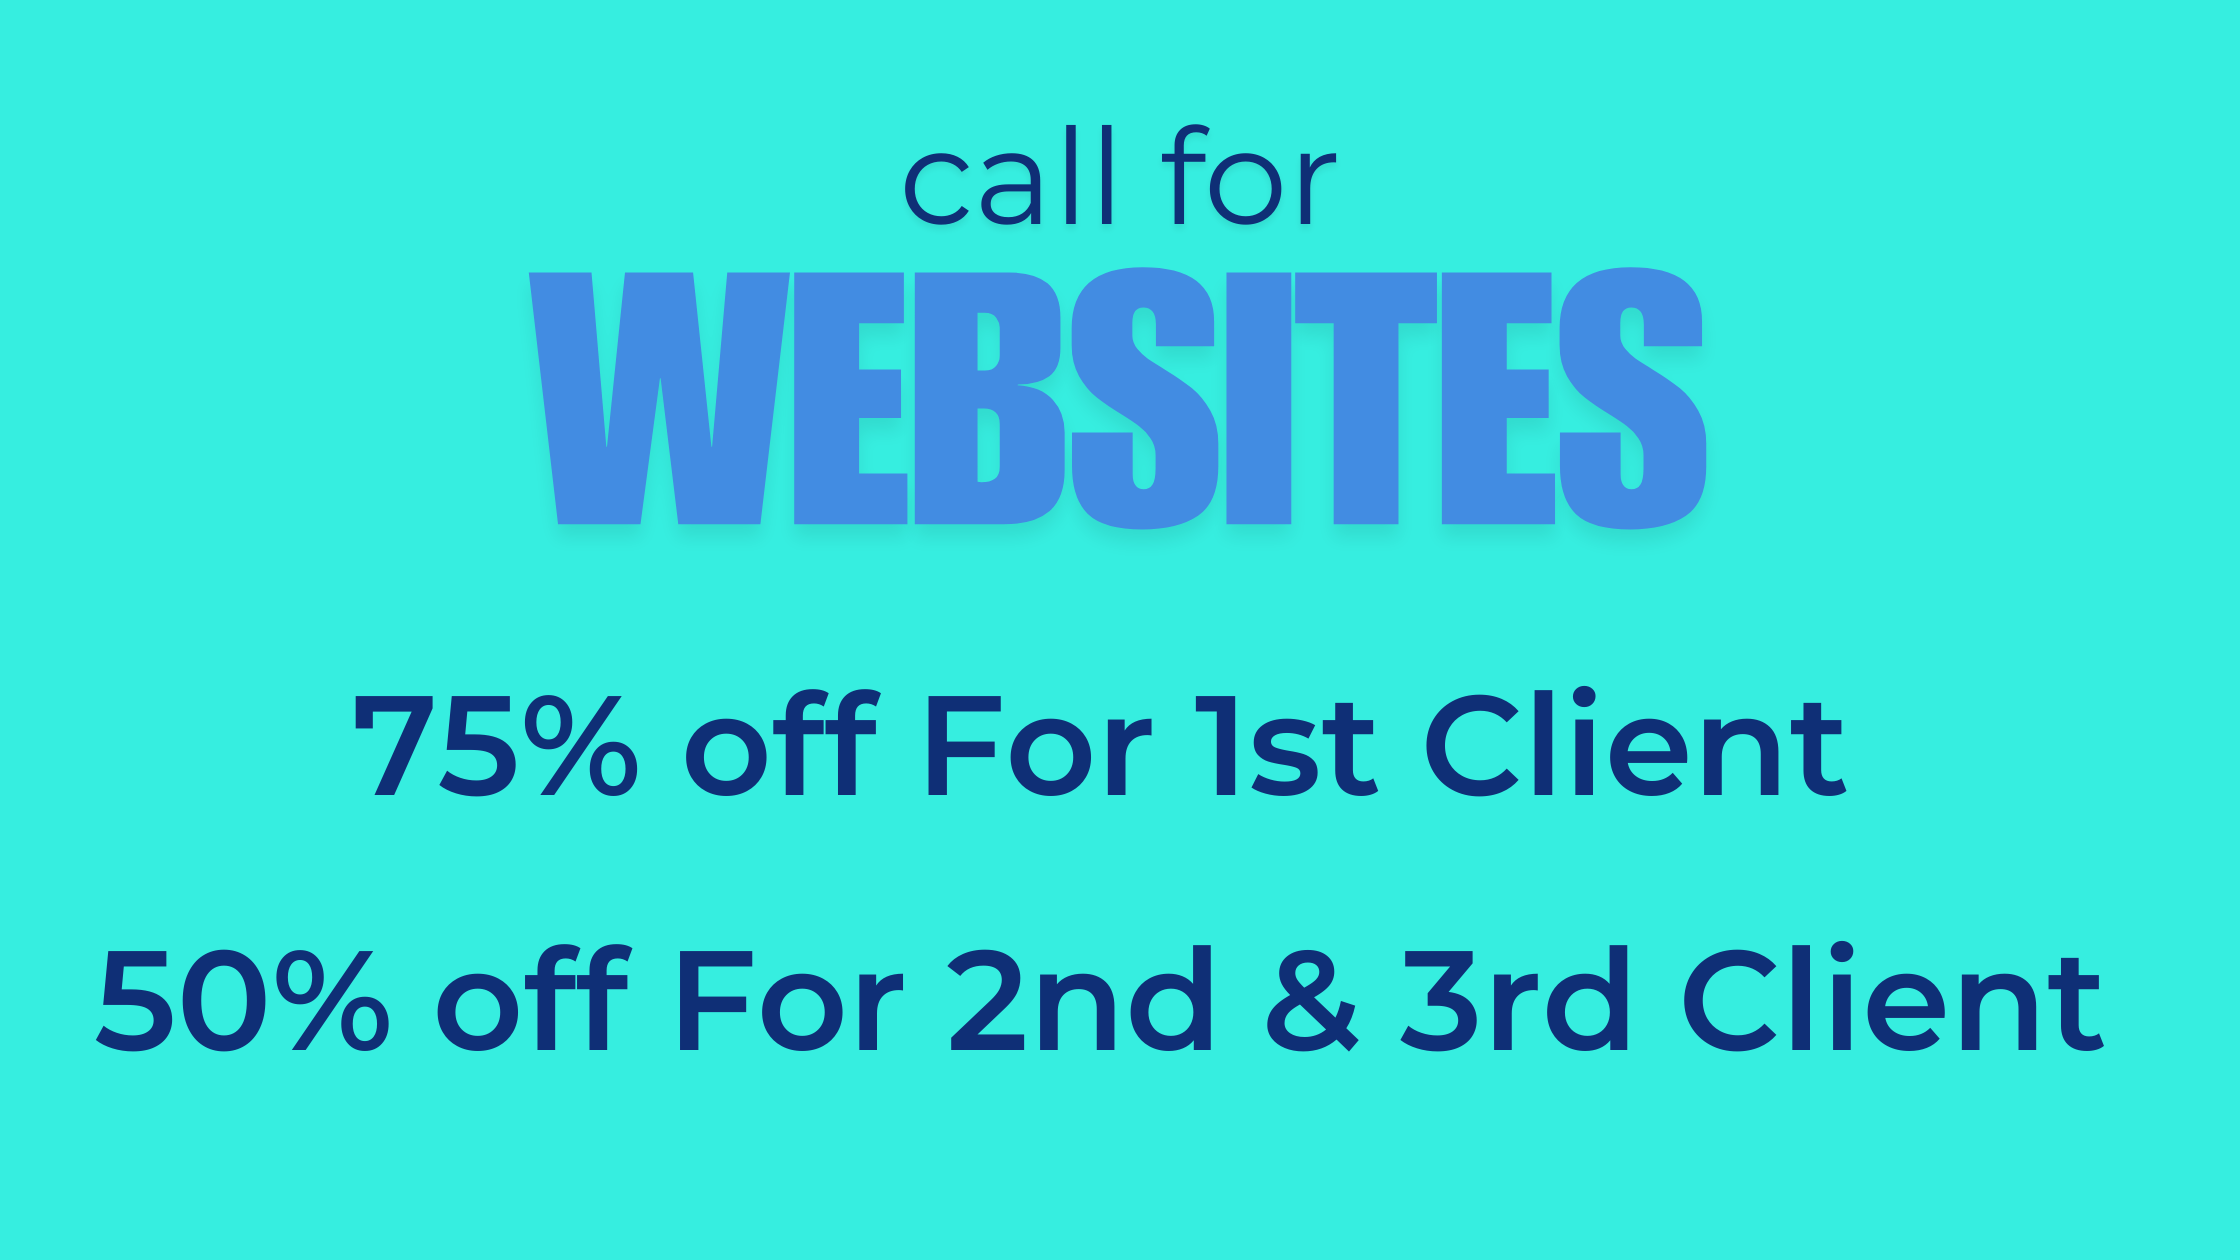
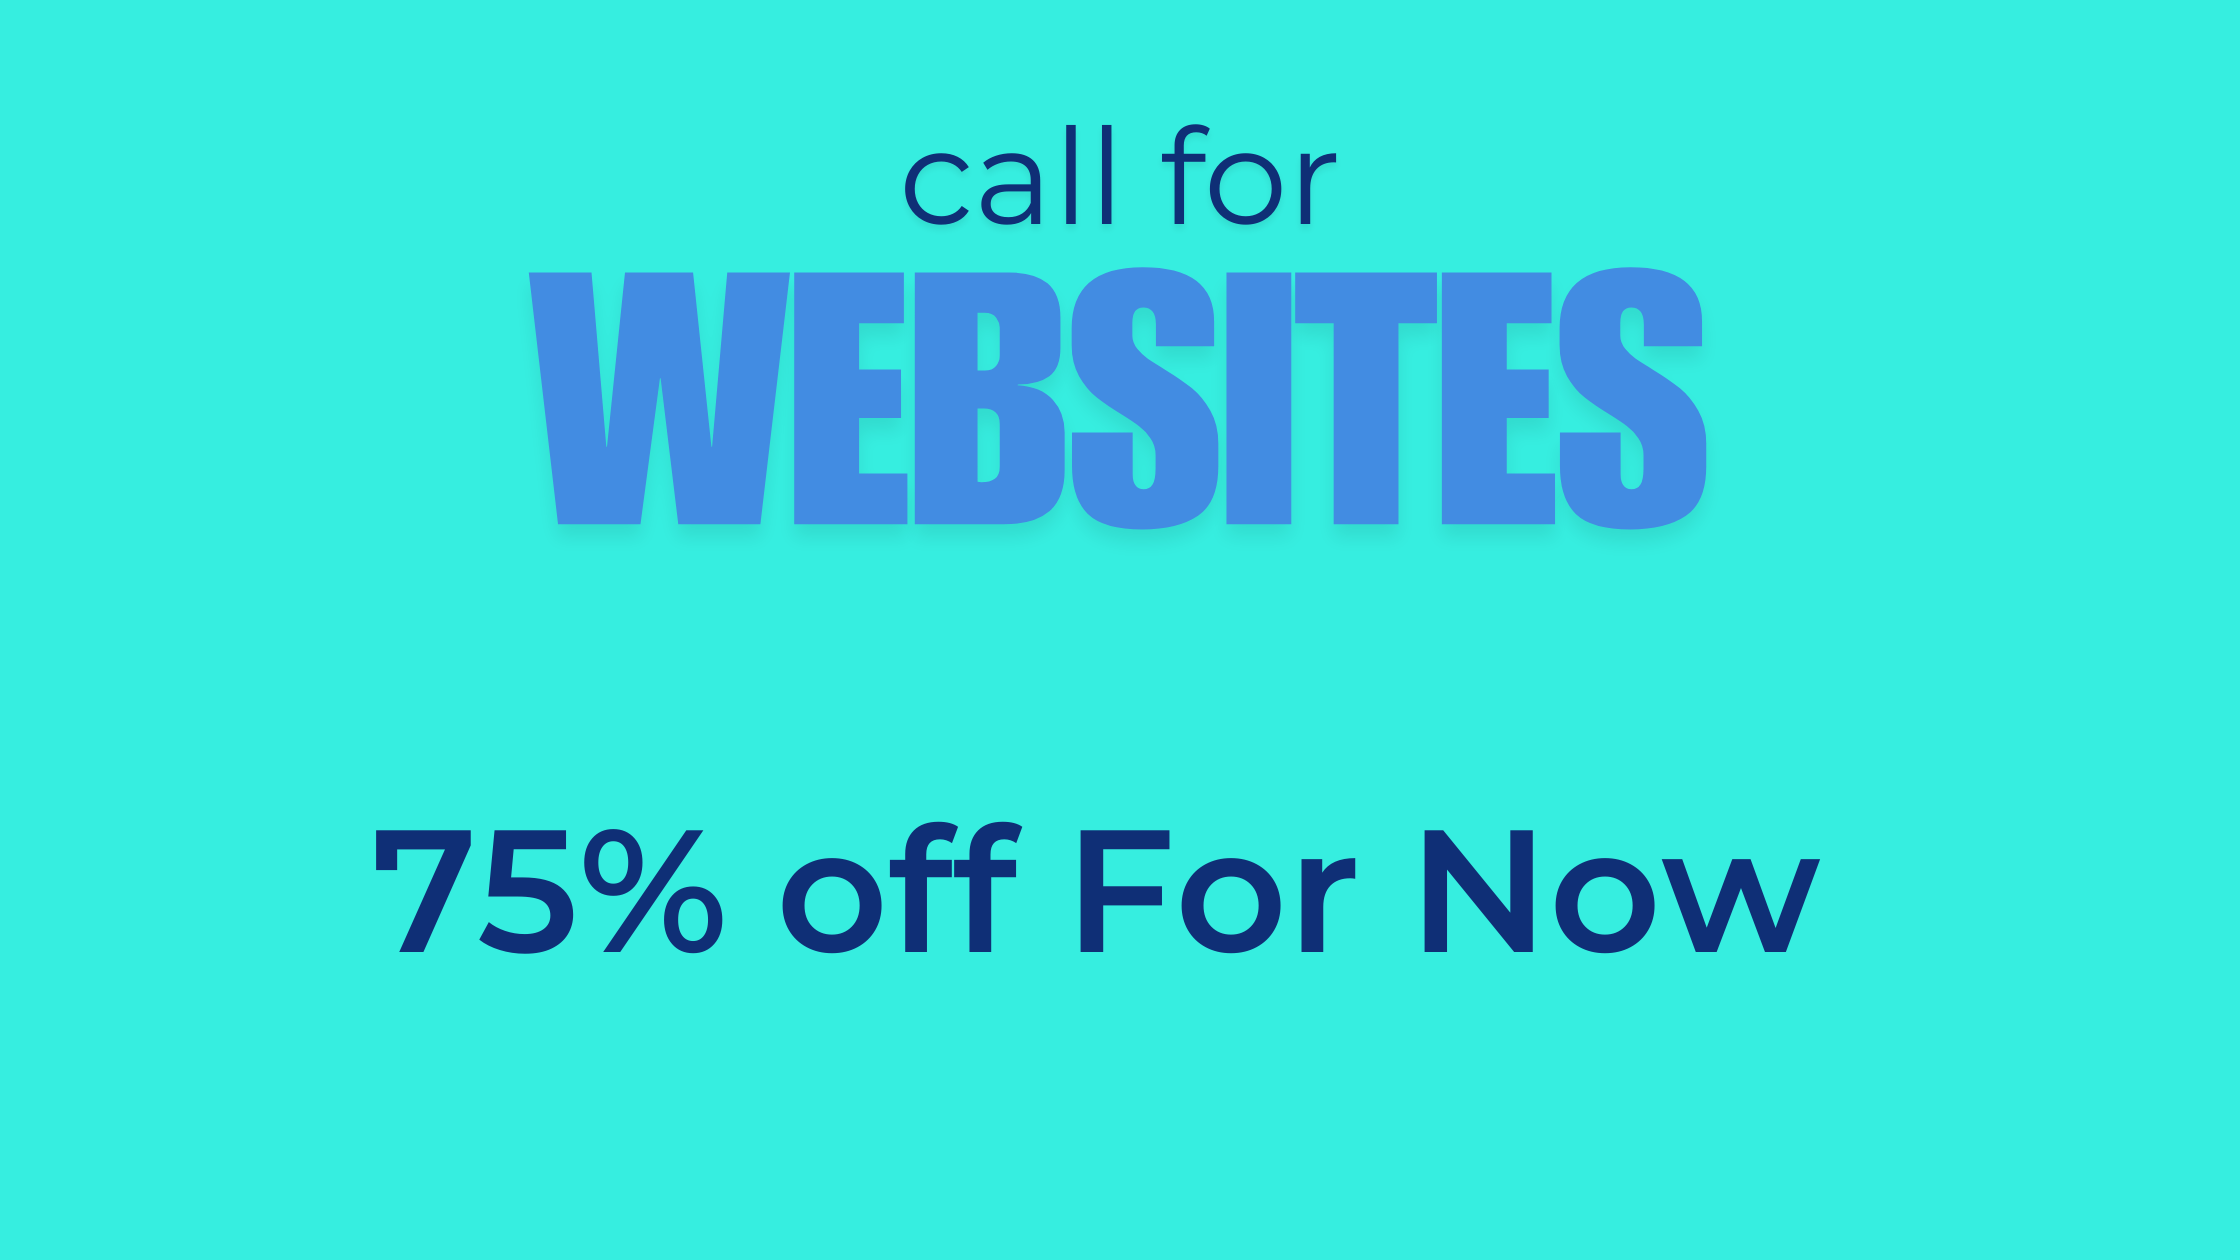
some updates

Changed region(s): [[0.0312, 0.5262, 0.9375, 0.8357]]

diff --git a/src/pages/About.jsx b/src/pages/About.jsx
@@ -45,13 +45,19 @@ const About = () => {
       </div>
 
       {/* Flex Container for Paragraph, GIF and Name */}
-      <div className="md:flex items-center pt-12 md:pt-20 md:px-24">
+      <div className="md:flex items-center pt-12 md:pt-50 md:px-24">
         {/* Left Side - Paragraph */}
         <div className="flex-1 md:pt-0 pt-5 px-4">
-          <h1 className="md:text-[30px] text-[25px] md:pb-1">About Us</h1>
-          <div className="bg-[#DBFF5E] h-1 w-[100px] mb-4"></div>
+          <h1 className="md:text-[30px] text-[25px] md:pb-0">Our Story</h1>
+          <div className="bg-[#DBFF5E] h-1 w-[100px] md:w-[130px]  mb-4"></div>
           <p className="md:w-3/4 ">
-            Lorem Ipsum is simply dummy text of the printing and typesetting industry. Lorem Ipsum has been the industry's standard dummy text ever since the 1500s, when an unknown printer took a galley of type and scrambled it to make a type specimen book. It has survived not only five centuries, but also the leap into electronic typesetting, remaining essentially unchanged. It was popularised in the 1960s with the release of Letraset sheets containing Lorem Ipsum passages, and more recently with desktop publishing software like Aldus PageMaker including versions of Lorem Ipsum.
+              It all started with two college friends who shared a passion for software development but knew they didn’t want to be confined to a traditional 9-to-5 job. Driven by a vision to create something impactful, we built this platform to connect those in need of quality digital solutions with reliable, affordable services.
+
+              We specialize in developing custom websites and web applications tailored to you and your business needs. Whether you're a startup or an established brand, we’re here to bring your vision to life with dedication and precision.
+
+              As we embark on this journey, our focus is on delivering reliability and building trust with our clients, prioritizing long-term relationships over short-term profits, That's why we are doing this at highly affordable price. We're excited to start small, but we have big expansion plans for the future.
+
+              Give us the opportunity to serve you, and let’s create something amazing together. Thank you for considering us.
           </p>
         </div>
 
@@ -67,6 +73,7 @@ const About = () => {
         {/* Right Side - Name */}
         <div className="flex-shrink-0 text-center md:pt-0 py-3 md:text-right md:w-2/6">
           <p className="text-[24px] text-[#DBFF5E]">Hari & Deepan<br/><h5 className="text-white">The Developer Duo You'll Ever Need</h5></p>
+          <p className="md:text-[17px] text-base">For Orders : <br/> 6369312803 - WhatsApp preferred<br/>Email : bluehutch01@gmail.com</p>
         </div>
       </div>
     </div>

diff --git a/src/pages/AboutUs.jsx b/src/pages/AboutUs.jsx
@@ -8,9 +8,9 @@ function AboutUs() {
     return (
         <div className='md:px-5 md:py-16 py-32'>
         <div>
-            <div className='md:text-[#DBFF5E] text-white text-center text-2xl md:text-4xl'>
+            <div className='md:text-[#DBFF5E] text-white text-center text-2xl md:text-3xl'>
                
-                <div className='md:text-white text-[#DBFF5E] pt-2'>We Are Under Production. Stay Tuned!</div>          
+                <div className='md:text-white text-[#DBFF5E] pt-2'>We're still under development, but fully functional with our current features.</div>          
             </div>
             <div className='text-white  md:py-10 py-7 bg-customBlue1 my-16 mx-3 md:mx-10 rounded-3xl bg-gradient-to-r from-forGradient  to-customBlue1 px-4 md:px-8'>
                 <div className='pb-5'>

diff --git a/src/pages/WebsitesAd.jsx b/src/pages/WebsitesAd.jsx
@@ -28,8 +28,8 @@ function WebsitesAd() {
         
             
         </div>
-        <h3 className='md:pt-8 text-center text-[#DBFF5E]'>
-            Current Offer : 75% off for 1st Client | 50% off for 2nd & 3rd Client
+        <h3 className='md:mt-8 md:py-5 md:ml-[470px] md:w-1/3 bg-[#DBFF5E] text-center text-[#261893] rounded-xl mt-6'>
+            Current Offer : 75% off for Now
         </h3>
         </div>
     )

diff --git a/src/pages/Hero.jsx b/src/pages/Hero.jsx
@@ -34,7 +34,6 @@ function Hero  () {
       </div>
     </div>
     <About/>
-    <Testinomial />
     </div>
   );
 };
